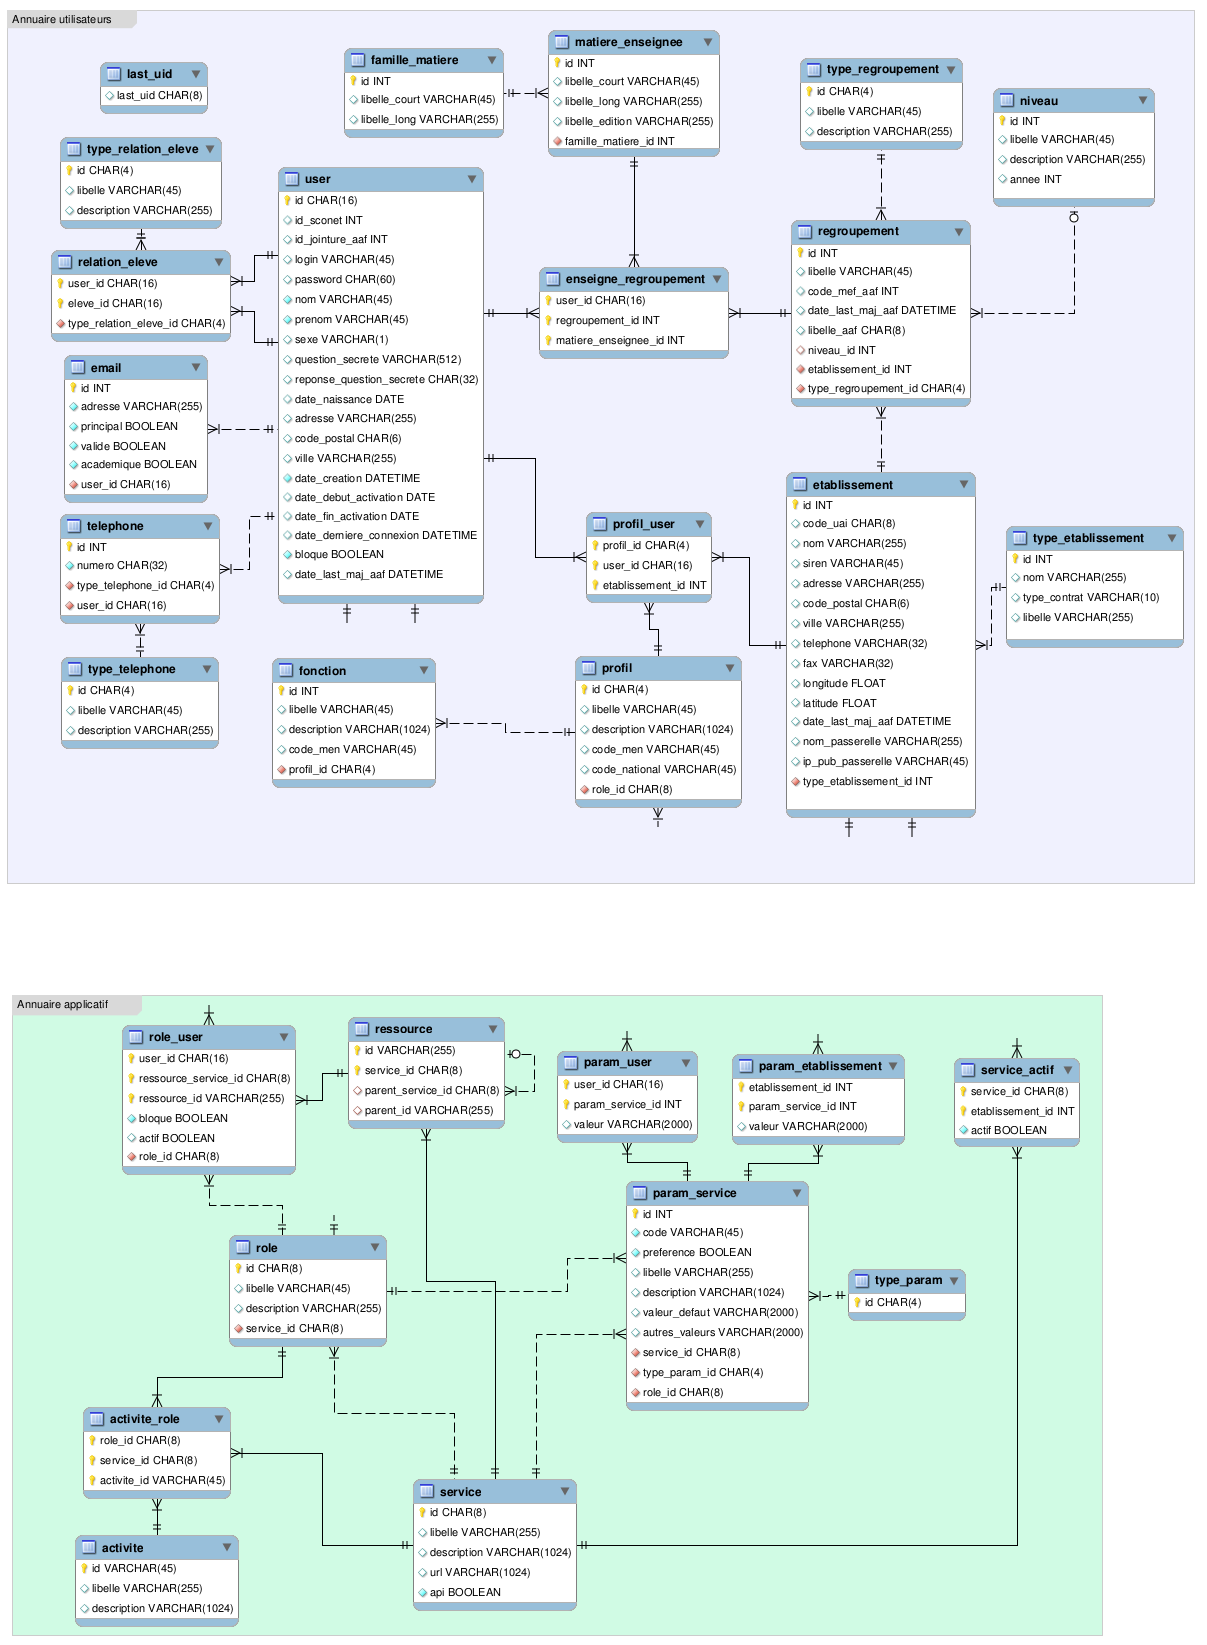
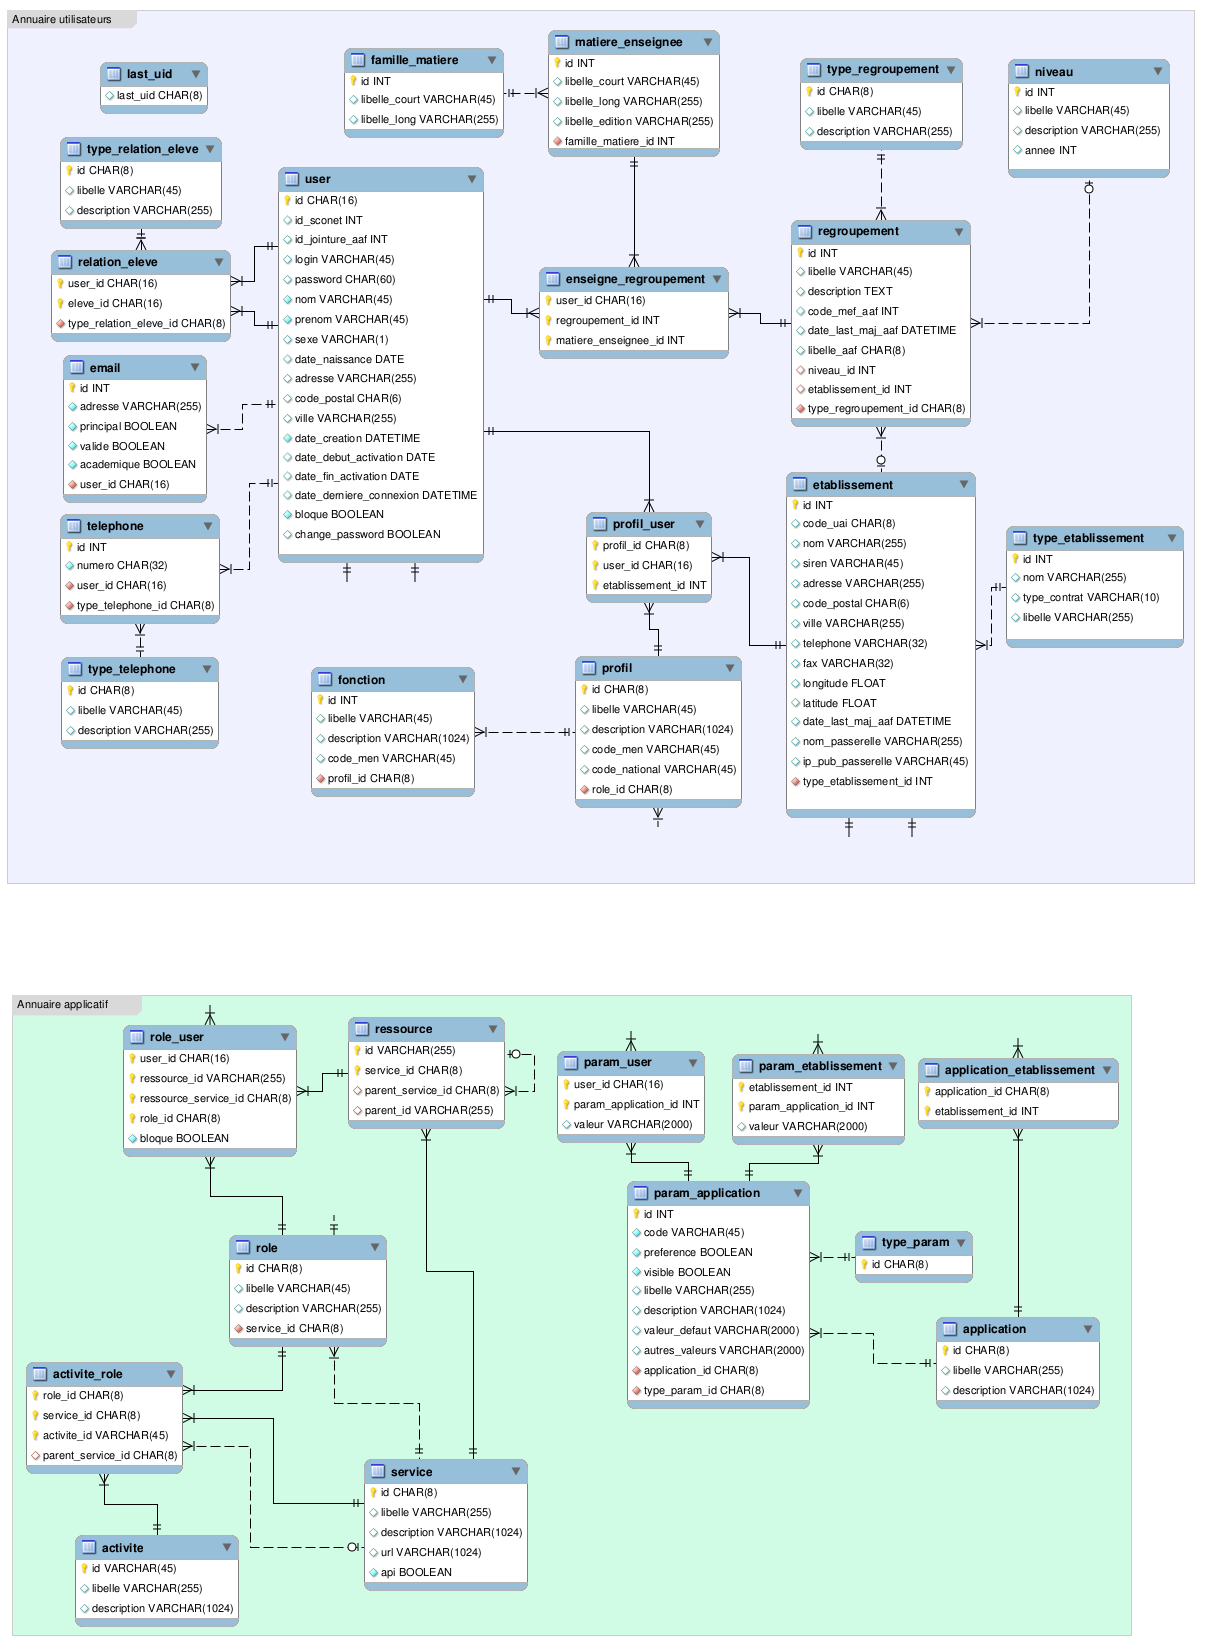
BDD : Suppression de champs inutilisés

diff --git a/db/scripts/bootstrap.rb b/db/scripts/bootstrap.rb
@@ -90,7 +90,7 @@ def bootstrap_annuaire()
 
   #Tout d'abord, on créer des services (api)
   # service laclasse.com (les super admin y sont reliés)
-  Service.create(:id => SRV_LACLASSE, :libelle => "Laclasse.com", :description => "Service auquel tout est rattaché", :url => "/", :api => true)
+  Service.create(:id => SRV_LACLASSE, :libelle => "Laclasse.com", :description => "Service auquel tout est rattaché", :url => "/")
 
   # TODO : Rajouter les roles de prof et eleve dans une classe (cela sera des constantes)
   # TODO : Rajouter le role de documentaliste qui a comme une role de prof sur toutes les classes
@@ -106,12 +106,12 @@ def bootstrap_annuaire()
   #
   # service /user
   #
-  Service.create(:id => SRV_USER, :libelle => "Gestion utilisateur", :description => "Service de gestion des utilisateurs de laclasse.com", :url => "/user", :api => true)
+  Service.create(:id => SRV_USER, :libelle => "Gestion utilisateur", :description => "Service de gestion des utilisateurs de laclasse.com", :url => "/user")
 
   #
   # service /etablissement
   #
-  Service.create(:id => SRV_ETAB, :libelle => "Gestion etablissement", :description => "Service de gestion des etablissements de laclasse.com", :url => "/etablissement", :api => true)
+  Service.create(:id => SRV_ETAB, :libelle => "Gestion etablissement", :description => "Service de gestion des etablissements de laclasse.com", :url => "/etablissement")
 
   # Et des Role et ActiviteRole
   Role.create(:id => ROL_PROF_ETB, :libelle => "Professeur", :service_id => SRV_ETAB)
@@ -136,16 +136,16 @@ def bootstrap_annuaire()
   #
   # service /classe
   #
-  Service.create(:id => SRV_CLASSE, :libelle => "Service de gestion des classes", :url => "/classe", :api => true)
+  Service.create(:id => SRV_CLASSE, :libelle => "Service de gestion des classes", :url => "/classe")
 
   Role.create(:id => ROL_PROF_CLS, :libelle => "Professeur", :description => "Professeur enseignant dans une classe", :service_id => SRV_CLASSE)
   Role.create(:id => ROL_PRFP_CLS, :libelle => "Professeur Principal", :description => "Professeur principal d'une classe", :service_id => SRV_CLASSE)
   Role.create(:id => ROL_ELV_CLS, :libelle => "Elève", :service_id => SRV_CLASSE)
 
   # service /groupe
-  Service.create(:id => SRV_GROUPE, :libelle => "Service de gestion des groupes d'élèves", :url => "/groupe", :api => true)
+  Service.create(:id => SRV_GROUPE, :libelle => "Service de gestion des groupes d'élèves", :url => "/groupe")
   # service /libre
-  Service.create(:id => SRV_LIBRE, :libelle => "Service de gestion des groupes libres", :url => "/libre", :api => true)
+  Service.create(:id => SRV_LIBRE, :libelle => "Service de gestion des groupes libres", :url => "/libre")
   # service /rights
 
   # service /alimentation
@@ -261,8 +261,8 @@ def bootstrap_annuaire()
     100.times do |ind|
       #Création aléatoire d'un nom et d'un utilisateur
       r = Random.new
-      pren = prenom_list[r.rand(prenom_list.length)]
-      nom = nom_list[r.rand(nom_list.length)]
+      pren = prenom_list[r.rand(prenom_list.length)].capitalize
+      nom = nom_list[r.rand(nom_list.length)].capitalize
       sexe = r.rand(2) == 0 ? "M" : "F"
 
       login = User.find_available_login(pren, nom)
@@ -298,6 +298,10 @@ def bootstrap_annuaire()
       end
 
       usr.add_profil(etb.id, profil)
+      usr.add_email("#{usr.login}@laclasse.com")
+      usr.add_email("#{usr.login}@gmail.com")
+      usr.add_telephone("0472540000")
+      usr.add_telephone("0662540000")
     end
   end
 end

diff --git a/spec/lib/rights_spec.rb b/spec/lib/rights_spec.rb
@@ -2,11 +2,6 @@
 require_relative '../helper'
 
 describe Rights do
-  #in case something went wrong
-  delete_test_ressources_tree()
-  delete_test_role()
-  delete_test_users()
-  
   it "return create_user rights for user in ressource etablissement if user has role on etab" do
     r = create_test_role()
     ressource_etab = create_test_ressources_tree()
@@ -15,8 +10,6 @@ describe Rights do
     admin = create_user_with_role(r.id, ressource_etab)
     Rights.get_rights(admin.id, SRV_ETAB, ressource_etab.id, SRV_USER).should == [ACT_CREATE]
     Rights.get_rights(admin.id, SRV_ETAB, e2.id, SRV_USER).should == []
-    delete_test_ressources_tree()
-    delete_test_role()
   end
 
   it "return create_user rights for user in ressource etablissement if user has role on laclasse" do
@@ -27,8 +20,6 @@ describe Rights do
     admin = create_user_with_role(r.id)
     Rights.get_rights(admin.id, SRV_ETAB, ressource_etab.id, SRV_USER).should == [ACT_CREATE]
     Rights.get_rights(admin.id, SRV_ETAB, e2.id, SRV_USER).should == [ACT_CREATE]
-    delete_test_ressources_tree()
-    delete_test_role()
   end
 
   it "should return create rights for user on resource class if user has role on etab " do
@@ -37,8 +28,6 @@ describe Rights do
     admin = create_user_with_role(r.id, e.ressource)
     classe = e.add_regroupement({:type_regroupement_id => TYP_REG_CLS})
     Rights.get_rights(admin.id, SRV_CLASSE, classe.id).should == [ACT_DELETE]
-    delete_test_ressources_tree()
-    delete_test_role()
   end
 
   it "should handle merge similar rights" do
@@ -50,8 +39,6 @@ describe Rights do
       :ressource_id => e.ressource.id, :ressource_service_id => e.ressource.service_id,
       :role_id => r.id)
     Rights.get_rights(admin.id, SRV_ETAB, e.ressource.id, SRV_USER).should == [ACT_CREATE]
-    delete_test_ressources_tree()
-    delete_test_role()
   end
 
   it "should return create rights on service user for laclasse admin" do
@@ -59,8 +46,6 @@ describe Rights do
     admin = create_user_with_role(r.id)
     laclasse_id = Ressource[:service_id => SRV_LACLASSE].id
     Rights.get_rights(admin.id, SRV_LACLASSE, laclasse_id, SRV_USER).should == [ACT_CREATE]
-    delete_test_role()
-    delete_test_users()
   end
 
   it "cumulate rights from different role" do
@@ -85,8 +70,6 @@ describe Rights do
     Rights.get_rights(admin.id, SRV_CLASSE, classe.id).sort.should == [ACT_DELETE, ACT_UPDATE]
 
     r.destroy()
-    delete_test_ressources_tree()
-    delete_test_role()
   end
 
   # todo : Tester que l'on puisse accéder aux fichiers d'un établissement mais pas à celui des classes

diff --git a/model/user.rb b/model/user.rb
@@ -10,12 +10,10 @@
 # id_sconet                     | int(11)             | true     | UNI      |            | 
 # id_jointure_aaf               | int(11)             | true     | UNI      |            | 
 # login                         | varchar(45)         | false    |          |            | 
-# password                      | char(32)            | true     |          |            | 
+# password                      | char(60)            | true     |          |            | 
 # nom                           | varchar(45)         | false    |          |            | 
 # prenom                        | varchar(45)         | false    |          |            | 
 # sexe                          | varchar(1)          | true     |          |            | 
-# question_secrete              | varchar(512)        | true     |          |            | 
-# reponse_question_secrete      | char(32)            | true     |          |            | 
 # date_naissance                | date                | true     |          |            | 
 # adresse                       | varchar(255)        | true     |          |            | 
 # code_postal                   | char(6)             | true     |          |            | 
@@ -25,7 +23,7 @@
 # date_fin_activation           | date                | true     |          |            | 
 # date_derniere_connexion       | date                | true     |          |            | 
 # bloque                        | tinyint(1)          | false    |          | 0          | 
-# date_last_maj_aaf             | date                | true     |          |            | 
+# change_password               | tinyint(1)          | false    |          | 0          | 
 # ------------------------------+---------------------+----------+----------+------------+--------------------
 #
 class User < Sequel::Model(:user)

diff --git a/db/scripts/model_generator.rb b/db/scripts/model_generator.rb
@@ -1,7 +1,7 @@
 # Sequel Basic Scafolding Model Generator for MySQL 
 # Requires sequel-3.34.0 and above.
 #
-# This routine takes all the table of a database, en generates all Sequel models for Ramaze
+# This routine takes all the table of a database, en generates all Sequel models
 # For each table model we put :
 # - A header that reminds you the table structure
 # - the plugin list you wrote in 'plugin_to_add' array
@@ -10,7 +10,7 @@
 # - Generates init.rb to be include in the project
 #
 # Note : config/database should already exists. Create it using Rake
-# WARNING !
+# WARNING :
 # This script is a very very very partial implementation of Sequel features
 # It is only usefull at the beginning of a project to create all Sequel models of a database.
 #

diff --git a/model/service.rb b/model/service.rb
@@ -10,7 +10,6 @@
 # libelle                       | varchar(255)        | true     |          |            | 
 # description                   | varchar(1024)       | true     |          |            | 
 # url                           | varchar(1024)       | true     |          |            | 
-# api                           | tinyint(1)          | false    |          |            | 
 # ------------------------------+---------------------+----------+----------+------------+--------------------
 #
 class Service < Sequel::Model(:service)
@@ -45,7 +44,6 @@ class Service < Sequel::Model(:service)
   # Not nullable cols and unicity validation
   def validate
     super
-    validates_presence [:api]
   end
 
   def before_destroy
